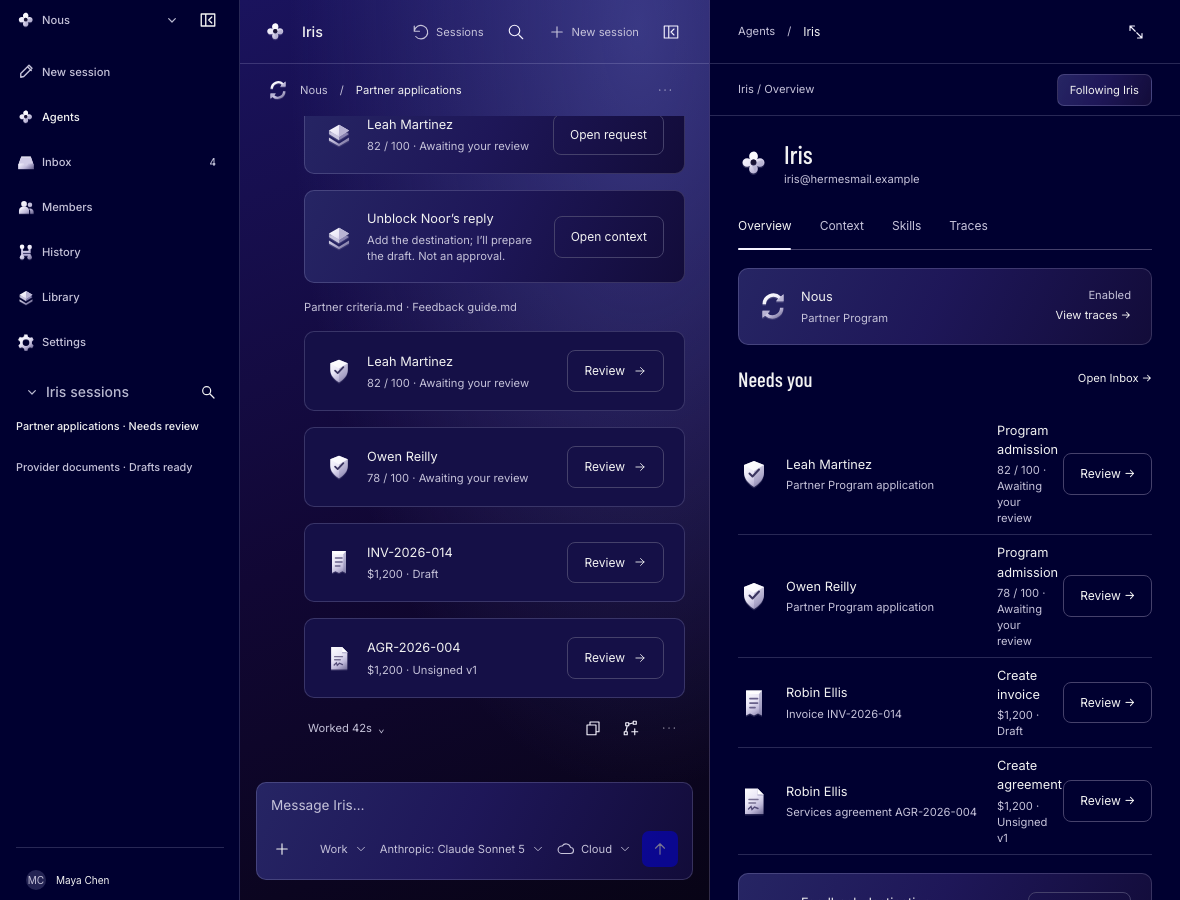
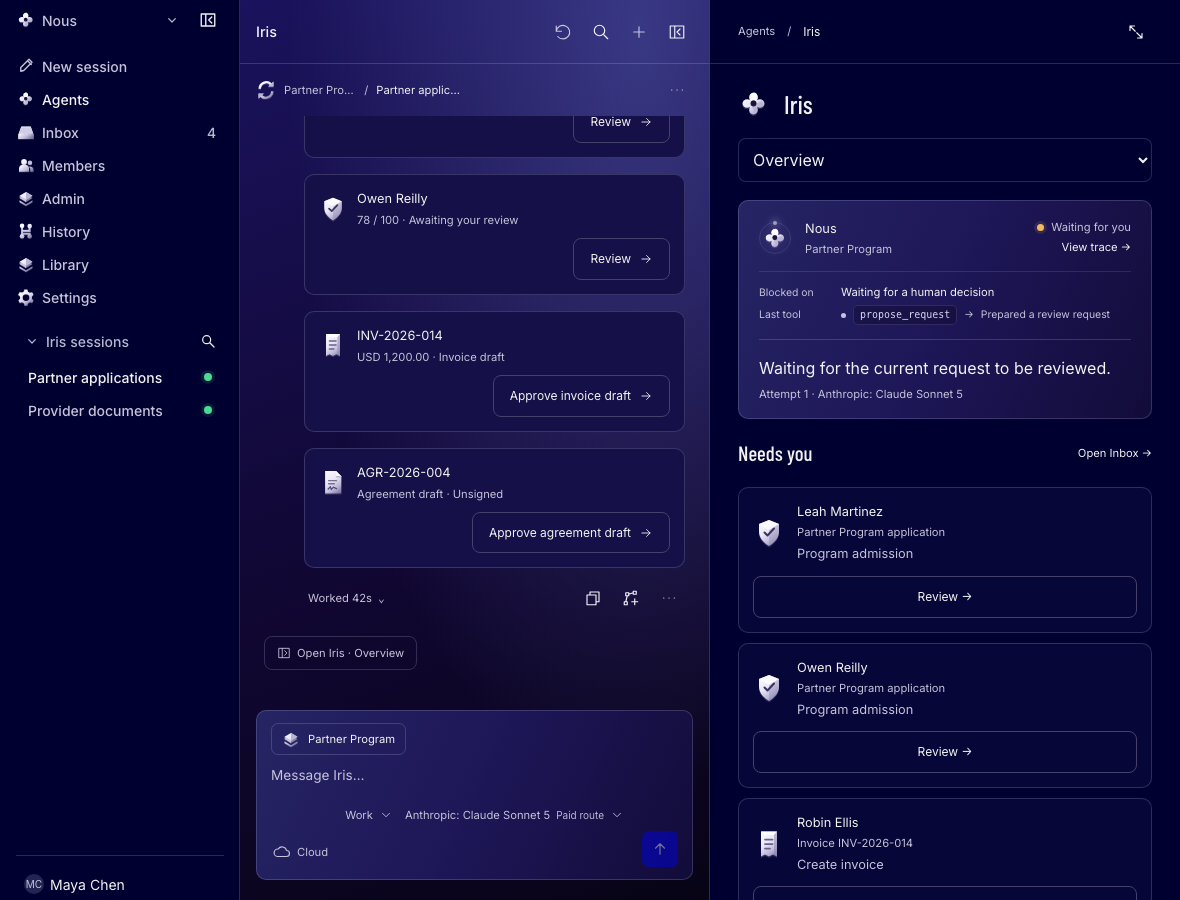
Mock: Finance can decide a contractor agreement
The mock projected only provenance-bearing invoices as Finance-scoped,
so Alex opened the auto-prepared agreement to "Admin decision required"
and the demo dead-ended. Contractor agreements now project the same way
the Worker routes them: Finance reviewer, pending for Alex. The e2e
approves Priya's agreement and sees the handoff leave In motion.

diff --git a/apps/client/e2e/partner-workflow.spec.ts b/apps/client/e2e/partner-workflow.spec.ts
@@ -69,6 +69,18 @@ test('Finance sees where an agreement came from', async ({ page }) => {
   await expect(pane.getByRole('heading', { name: 'Priya Nair' })).toBeVisible();
 });
 
+test('Finance can approve a contractor agreement and the handoff completes', async ({ page }) => {
+  await page.goto('/?partnerWorkflow=1&workflowRole=finance&seat=member');
+  const pane = await openHandoffs(page);
+  await pane.getByRole('button', { name: 'Review' }).click();
+  await expect(pane.getByText('Finance reviewer required')).toHaveCount(0);
+  await expect(pane.getByText('Admin decision required')).toHaveCount(0);
+  await pane.getByRole('button', { name: 'Approve agreement draft' }).click();
+  await expect(pane.getByRole('heading', { name: 'Saved unsigned' })).toBeVisible();
+  const handoffs = await openHandoffs(page);
+  await expect(handoffs.getByText('Nothing in motion')).toBeVisible();
+});
+
 test('an unrelated member receives no private workflow content', async ({ page }) => {
   await page.goto('/?partnerWorkflow=1&workflowRole=unrelated&seat=member');
   const pane = await openHandoffs(page);

diff --git a/apps/client/src/model/mock.ts b/apps/client/src/model/mock.ts
@@ -985,7 +985,8 @@ export function createMockBackend(options: MockOptions = {}) {
   function requestForViewer(row: MockRequest): MockRequest {
     const approval = approvalViews.get(row.id);
     if (approval) return { ...row, payload: approval.payload as unknown as Record<string, unknown>, approval: approvalProjection(approval) };
-    const financeScoped = row.kind === 'invoice' && 'workflow_provenance' in row.payload;
+    const financeScoped = (row.kind === 'invoice' && 'workflow_provenance' in row.payload)
+      || (row.kind === 'agreement' && (row.payload.workflow_provenance as { handoff_key?: string } | undefined)?.handoff_key === 'contractor-agreements');
     // Preserve the older Worker response shape for the existing legacy Member
     // browser fixture. The scoped Finance fixture exercises the new projection.
     if (!financeScoped && seat === 'member') return row;
